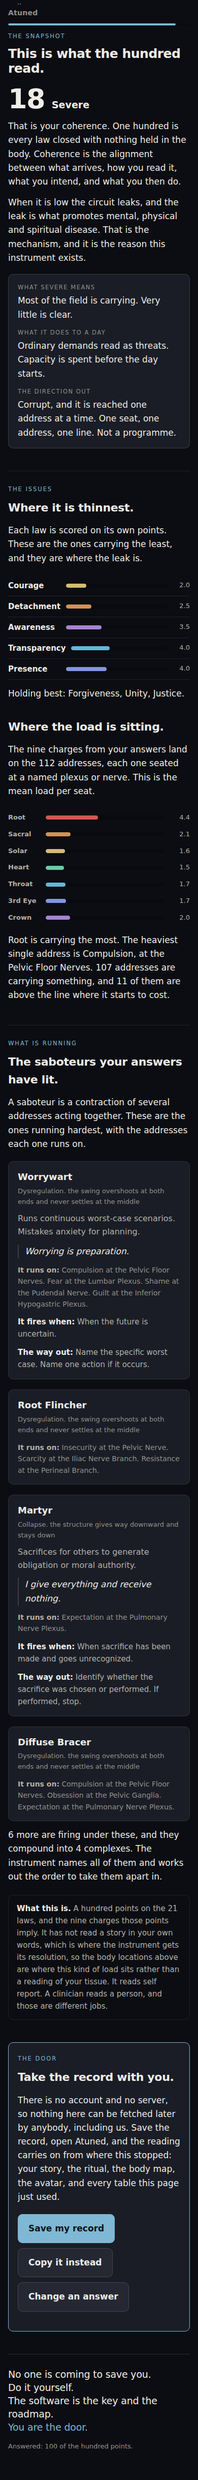
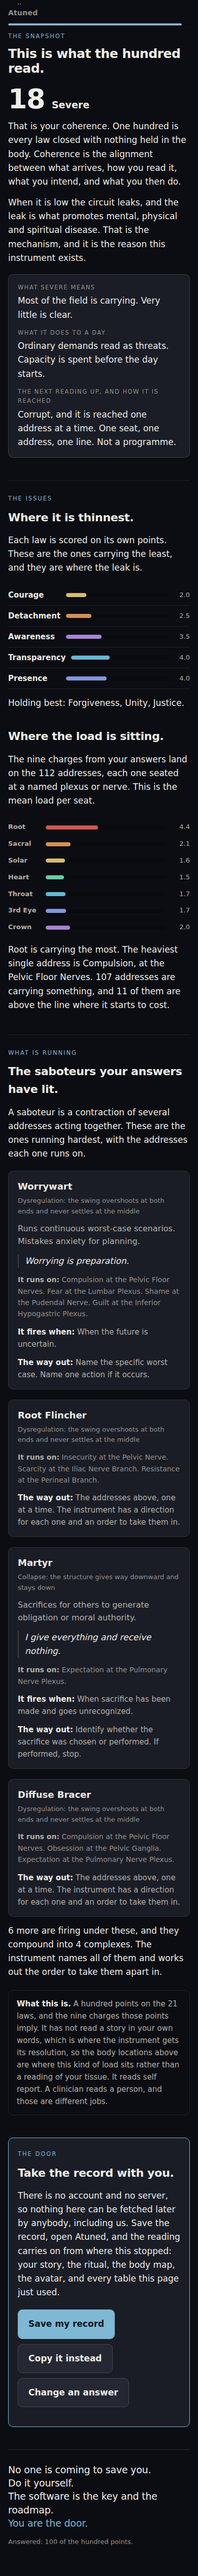
The monitor log, and the questions rendered at this commit
Claude-Session: https://claude.ai/code/session_016LLF9NZj8M8zDK26vbWgWq

Changed region(s): [[0.0308, 0.0, 0.9538, 0.9971], [0.6769, 0.9348, 0.7385, 0.966]]

diff --git a/funnel/index.html b/funnel/index.html
@@ -78,7 +78,11 @@ a.btn:focus-visible{outline:2px solid var(--ink);outline-offset:3px}
 @media(min-width:560px){ .three{grid-template-columns:1fr 1fr 1fr} }
 @media(max-width:400px){
  h1{font-size:33px} .lead{font-size:21px} h2{font-size:22px}
- .close p{font-size:20px} .tools li{flex-wrap:wrap} .tools li b{flex-basis:100%}
+ .close p{font-size:20px} .tools li{flex-wrap:wrap}
+ /* the seat dot stayed on the row and the name dropped below it, which
+    orphaned a coloured dot on a line of its own. The name takes the rest
+    of row one and only the description wraps. */
+ .tools li b{flex-basis:calc(100% - 19px)} .tools li span{flex-basis:100%}
 }
 </style></head><body>
 <div class="wrap">

diff --git a/funnel/quiz.html b/funnel/quiz.html
@@ -19,7 +19,10 @@ body{font-size:17px;line-height:1.6}
  width:.14em;height:.14em;border-radius:50%;background:var(--dim)}
 .wm .um::before{left:.05em}
 .wm .um::after{left:.36em}
-.bar{height:4px;background:var(--sunk);border-radius:2px;margin-top:10px;overflow:hidden}
+/* THE TRACK WAS INVISIBLE. --sunk against --bg is a fifth of a stop, so on
+   the first screen the bar had no frame and the fill had nothing to fill.
+   Measured on the shot, not read off the sheet. */
+.bar{height:4px;background:var(--panel-2);border-radius:2px;margin-top:10px;overflow:hidden}
 .bar i{display:block;height:100%;background:var(--accent);border-radius:2px;
  transition:width .22s ease}
 

diff --git a/DESIGN-sniffer.md b/DESIGN-sniffer.md
@@ -1013,9 +1013,15 @@ bodies. Two lines change and two fields are added.
 
 ### What it costs, so the decision is priced
 
-- **Every reading the product has produced moves.** Mean CQ across the roster
-  goes from 33.86 to 53.7 on the estimator path, and tiers move with it: Rosa
-  Even to Coherent, James Corrupt to Oscillating, Ana Corrupt to Oscillating.
+- **Every reading the product has produced moves, and every tier with it.**
+  Measured: mean CQ across the 14 reference profiles goes from **33.86 to 53.27**
+  on the estimator path, and **14 of 14 profiles change tier.** Not some.
+  Tomas goes Severe to Oscillating, Gordon Severe to Oscillating, Rosa Even to
+  Compounding, Sofia and Lance Incoherent to Gaining. The blank profile goes
+  Incoherent to Even. **There is no profile in this repository whose stated tier
+  survives this change**, so every screenshot, every copy line that names a tier
+  and every threshold in the ladder is measuring against a distribution that
+  will not exist any more.
 - **`cqCeiling` and `cqHeadroom` need rewriting**, because the ceiling of the
   audited definition is 100 by construction and the ceiling of the estimator is a
   different function.
@@ -1032,8 +1038,9 @@ bodies. Two lines change and two fields are added.
 - **And one thing it silently fixes.** `benign` is `CQ >= 50` and `malig` is
   `(50-CQ)/50*100`. A blank profile reads 28 of 100 malignant today, which
   `DESIGN-lean.md` raises as its open item 7. Under either spec definition a
-  blank profile reads 60 and `malig` becomes 0. **The CQ ruling and the lean
-  seat's open item are the same question.**
+  blank profile reads 60 and `malig` becomes 0. Measured: **28 to 0, and
+  `benign` flips from false to true.** **The CQ ruling and the lean seat's open
+  item are the same question.**
 
 ## THE LEAN WORK AND THE BENIGN / MALIGNANT OPEN ITEM
 
